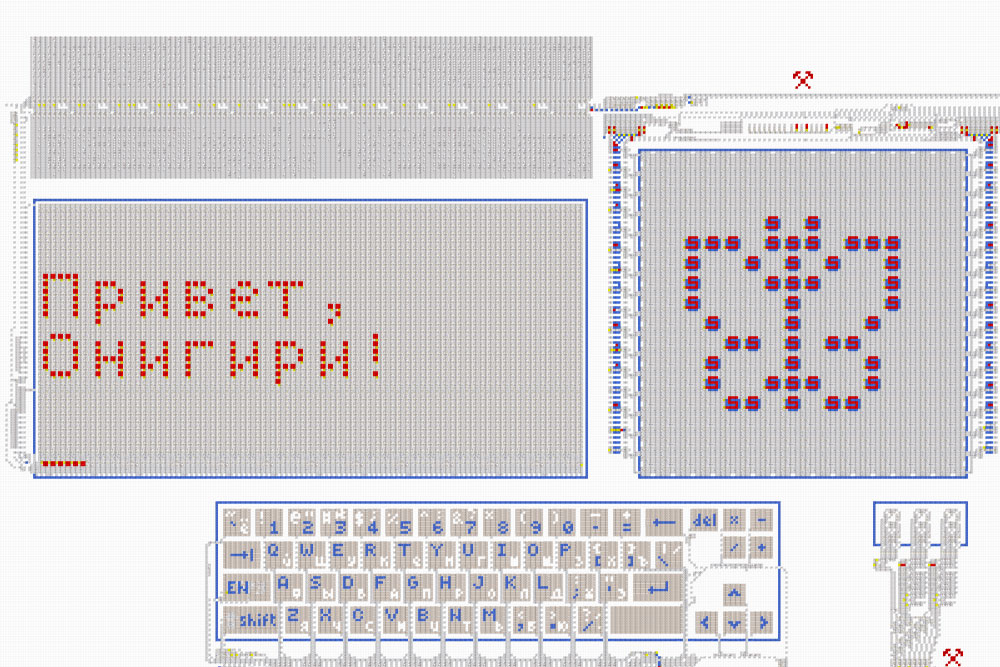
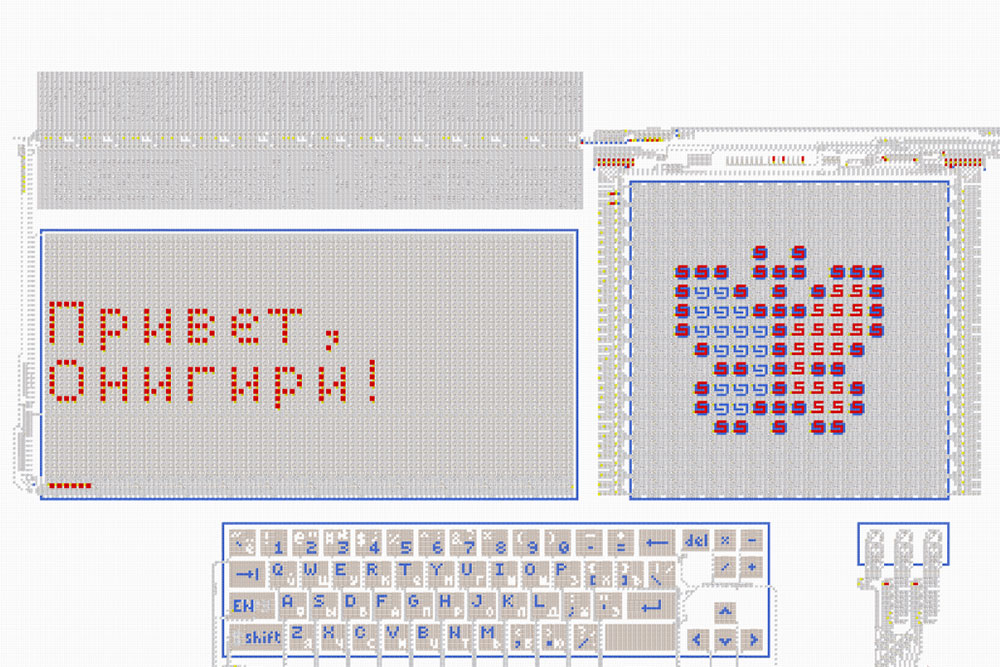
Computer v2 color display

diff --git a/ComputerEmulator/V2/GameOfLife.cs b/ComputerEmulator/V2/GameOfLife.cs
@@ -95,14 +95,14 @@ internal static class GameOfLife
         "53", // 49
         "00", // 4A 00000000 00000000
         "00", // 4B
-        "00", // 4C 00000000 01100000
-        "60", // 4D
-        "04", // 4E 00000100 10000000
-        "80", // 4F
-        "0A", // 50 00001010 11000000
-        "C0", // 51
-        "04", // 52 00000100 10000000
-        "80", // 53
+        "0A", // 4C 00001010 00101000
+        "28", // 4D
+        "11", // 4E 00010001 01000000
+        "40", // 4F
+        "22", // 50 00100010 00101000
+        "28", // 51
+        "14", // 52 00010100 01000000
+        "40", // 53
         "00", // 54 00000000 00000000
         "00", // 55
         "8E", // 56 10001110 11101110
@@ -117,38 +117,38 @@ internal static class GameOfLife
         "8E", // 5F
 
         // 0060 (frame_cache)
-        "00", // 60 ---
-        "00", // 61 ---
-        "00", // 62 ---
-        "00", // 63 ---
-        "00", // 64 ---
-        "00", // 65 ---
-        "00", // 66 ---
-        "00", // 67 ---
-        "00", // 68 ---
-        "00", // 69 ---
-        "00", // 6A ---
-        "00", // 6B ---
-        "00", // 6C ---
-        "00", // 6D ---
-        "00", // 6E ---
-        "00", // 6F ---
-        "00", // 70 ---
-        "00", // 71 ---
-        "00", // 72 ---
-        "00", // 73 ---
-        "00", // 74 ---
-        "00", // 75 ---
-        "00", // 76 ---
-        "00", // 77 ---
-        "00", // 78 ---
-        "00", // 79 ---
-        "00", // 7A ---
-        "00", // 7B ---
-        "00", // 7C ---
-        "00", // 7D ---
-        "00", // 7E ---
-        "00", // 7F ---
+        "60", // 60 01100000 00000000
+        "00", // 61
+        "89", // 62 10001001 10100010
+        "A2", // 63
+        "A5", // 64 10100101 01010101
+        "55", // 65
+        "AD", // 66 10101101 01010110
+        "56", // 67
+        "6D", // 68 01101101 01010011
+        "53", // 69
+        "00", // 6A 00000000 00000000
+        "00", // 6B
+        "14", // 6C 00010100 01010100
+        "54", // 6D
+        "22", // 6E 00100010 00100000
+        "20", // 6F
+        "11", // 70 00010001 01010000
+        "50", // 71
+        "0A", // 72 00001010 00100000
+        "20", // 73
+        "00", // 74 00000000 00000000
+        "00", // 75
+        "8E", // 76 10001110 11101110
+        "EE", // 77
+        "84", // 78 10000100 10001000
+        "88", // 79
+        "84", // 7A 10000100 11001100
+        "CC", // 7B
+        "84", // 7C 10000100 10001000
+        "88", // 7D
+        "EE", // 7E 11101110 10001110
+        "8E", // 7F
 
         // 0080: BANK_INNER (1)
         "55", // 80 inner_begin:        ldi b, inner_center

diff --git a/ComputerEmulator/Program.cs b/ComputerEmulator/Program.cs
@@ -9,20 +9,20 @@
 //    cpu.Run();
 //}
 
-// V2 - Game of Life
+// V2 - Space Fight!
 //{
 //    var ram = new ComputerEmulator.V2.Ram();
 //    Console.Pin(ram.Display);
-//    ram.Load(ComputerEmulator.V2.GameOfLife.Bytes());
+//    ram.Load(ComputerEmulator.V2.SpaceFight.Bytes());
 //    var cpu = new ComputerEmulator.V2.Cpu(ram);
 //    cpu.Run();
 //}
 
-// V2 - Space Fight!
+// V2 - Game of Life
 {
     var ram = new ComputerEmulator.V2.Ram();
-    Console.Pin(ram.Display);
-    ram.Load(ComputerEmulator.V2.SpaceFight.Bytes());
-    var cpu = new ComputerEmulator.V2.Cpu(ram);
-    cpu.Run();
+Console.Pin(ram.Display);
+ram.Load(ComputerEmulator.V2.GameOfLife.Bytes());
+var cpu = new ComputerEmulator.V2.Cpu(ram);
+cpu.Run();
 }

diff --git a/computer-v2/README.md b/computer-v2/README.md
@@ -27,7 +27,7 @@
 Зайдите на **[карту с компьютером](https://logic-arrows.io/map-computer).** В ползунке внизу справа
 установите максимальную скорость. Нажмите на кнопку, подписанную `Demo`, чтобы загрузить
 соответствующую программу с дискеты в оперативную память. Во время загрузки на дисплей выведется
-изображение бабочки. Дождитесь окончания загрузки. Далее нажмите на кнопку `RUN` и наблюдайте за
+цветная бабочка. Дождитесь окончания загрузки. Далее нажмите на кнопку `RUN` и наблюдайте за
 выполнением программы, в ходе которого в терминал постепенно выведется надпись «Привет, Онигири!».
 По окончании выполнения программы загорится лампочка `DONE`.
 <br><br><br>
@@ -58,8 +58,8 @@
       <td valign="top">
         <h3><a href="asm/demo.asm">Demo</a></h3>
         <a href="asm/demo.asm"><img src="img/demo.jpg" alt="Demo"></a><br>
-        Во время загрузки выводит на дисплей бабочку, а при запуске выводит в терминал надпись
-        «Привет, Онигири!».
+        Во время загрузки выводит на дисплей цветную бабочку, а при запуске выводит в терминал
+        надпись «Привет, Онигири!».
       </td>
       <td valign="top">
         <h3><a href="asm/prime-numbers.asm">Prime Numbers</a></h3>

diff --git a/computer-v2/specification.md b/computer-v2/specification.md
@@ -58,9 +58,9 @@
 
 ## Дисплей
 Для подключения вывода на дисплей необходимо в порт `3E` записать байт, у которого 3 и 2-й биты
-равны `01` для монохромного режима и `11` для цветного (в разработке). В монохромном режиме дисплей
-использует диапазон памяти `40...5F`, в цветном `40...7F`. Ниже показано соответствие адресов
-различным участкам дисплея. Запись по этим адресам будет приводить к появлению на дисплее пикселей,
+равны `01` для монохромного режима и `11` для цветного. В монохромном режиме дисплей использует
+диапазон памяти `40...5F`, в цветном `40...7F`. Ниже показано соответствие адресов различным
+участкам дисплея. Запись по этим адресам будет приводить к появлению на дисплее пикселей,
 соответствующих записанным битам.
 
 <img src="img/display.jpg" width="60%" alt="Дисплей">
